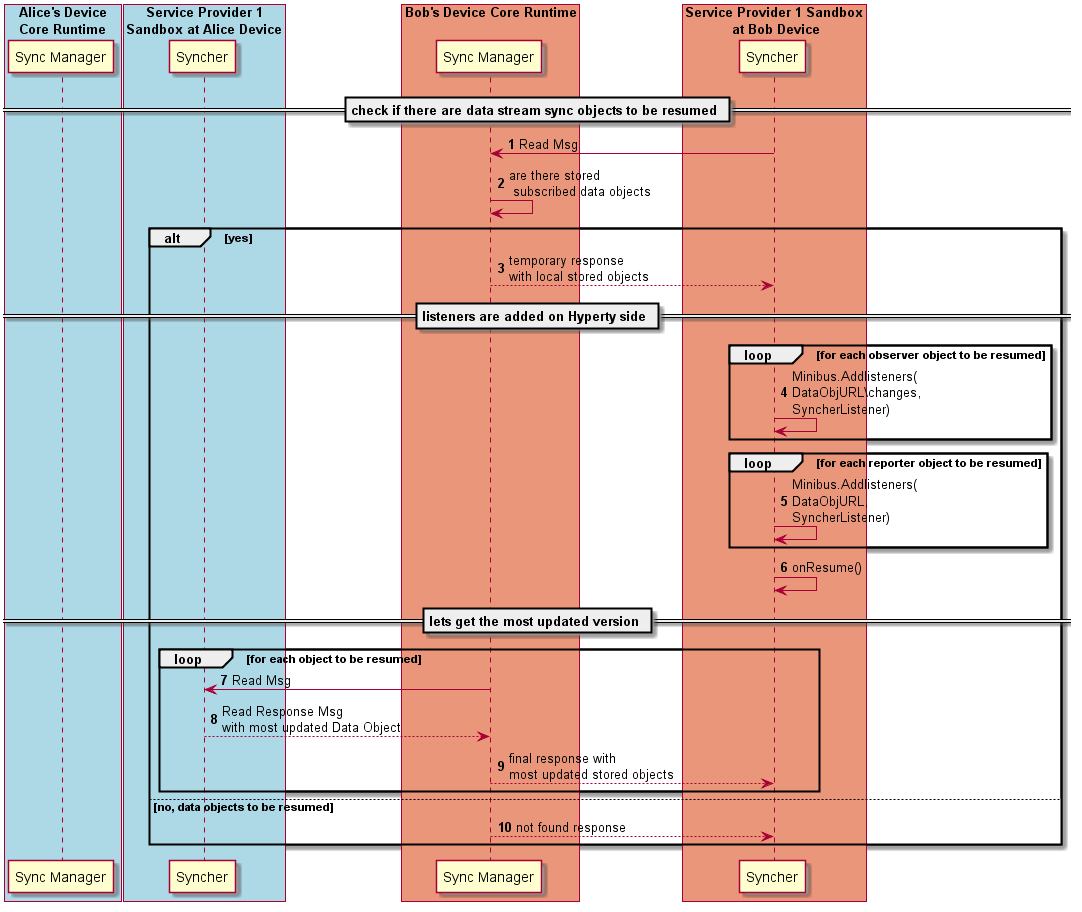
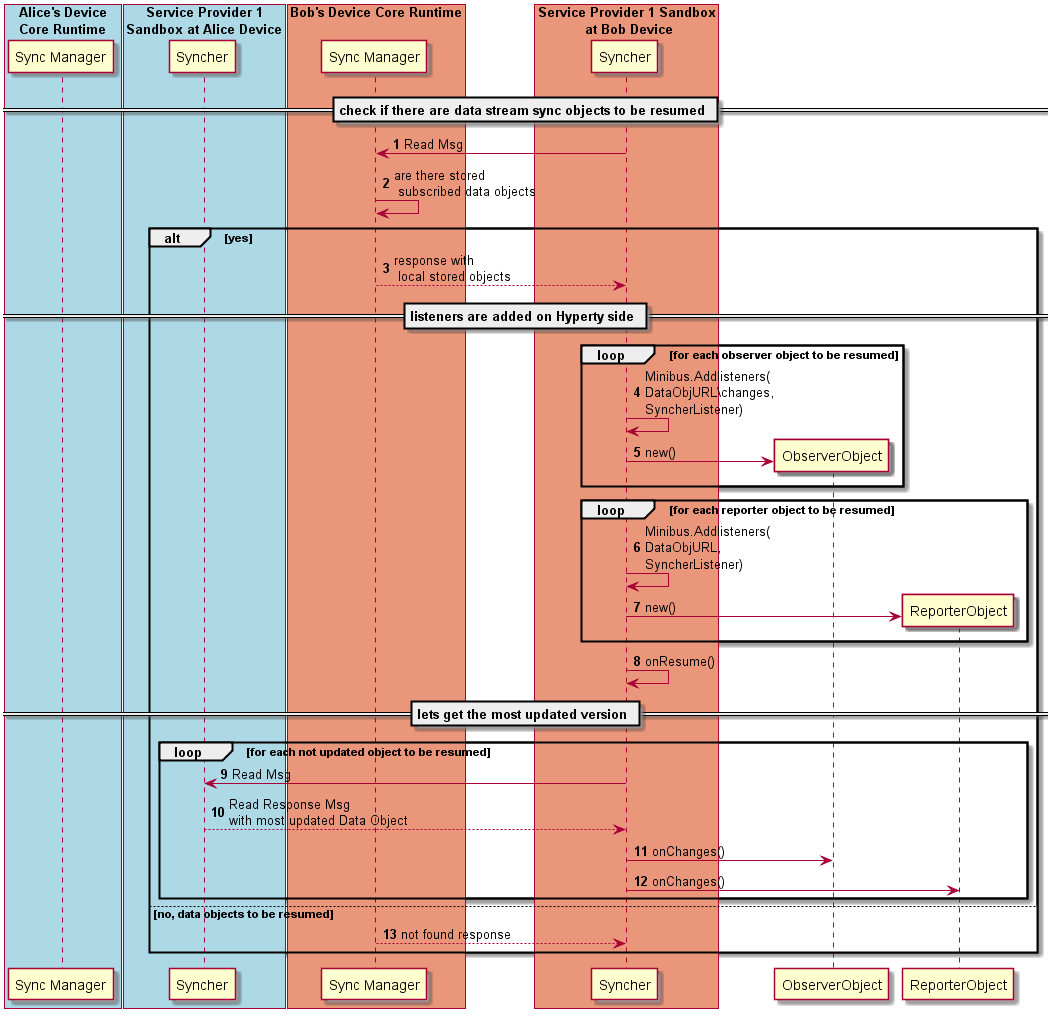
data object resume process update

diff --git a/messages/data-sync-messages.md b/messages/data-sync-messages.md
@@ -138,18 +138,9 @@ Successful Read Response Message from Synch Manager to Observer Hyperty with tem
 "type" : "response",
 "from" : "hyperty-runtime://<observer-sp-domain>/<hyperty-observer-runtime-instance-identifier>/sm",
 "to" : "hyperty://<sp-domain>/<hyperty-observer-identifier>",
-"body" : { "code" : "100" , "value" : { "observers" : [<data object>] , "reporters" : [<data object>] } }
+"body" : { "code" : "200" , "value" : { "observers" : [<data object>] , "reporters" : [<data object>] } }
 ```
 
-Successful Read Response Message from Synch Manager to Hyperty with final updated data object.
-
-```
-"id" : 1,
-"type" : "response",
-"from" : "hyperty-runtime://<observer-sp-domain>/<hyperty-observer-runtime-instance-identifier>/sm",
-"to" : "hyperty://<sp-domain>/<hyperty-observer-identifier>",
-"body" : { "code" : "200" , "value" : <data object> }
-```
 
 ##### Not Found Read Response
 
